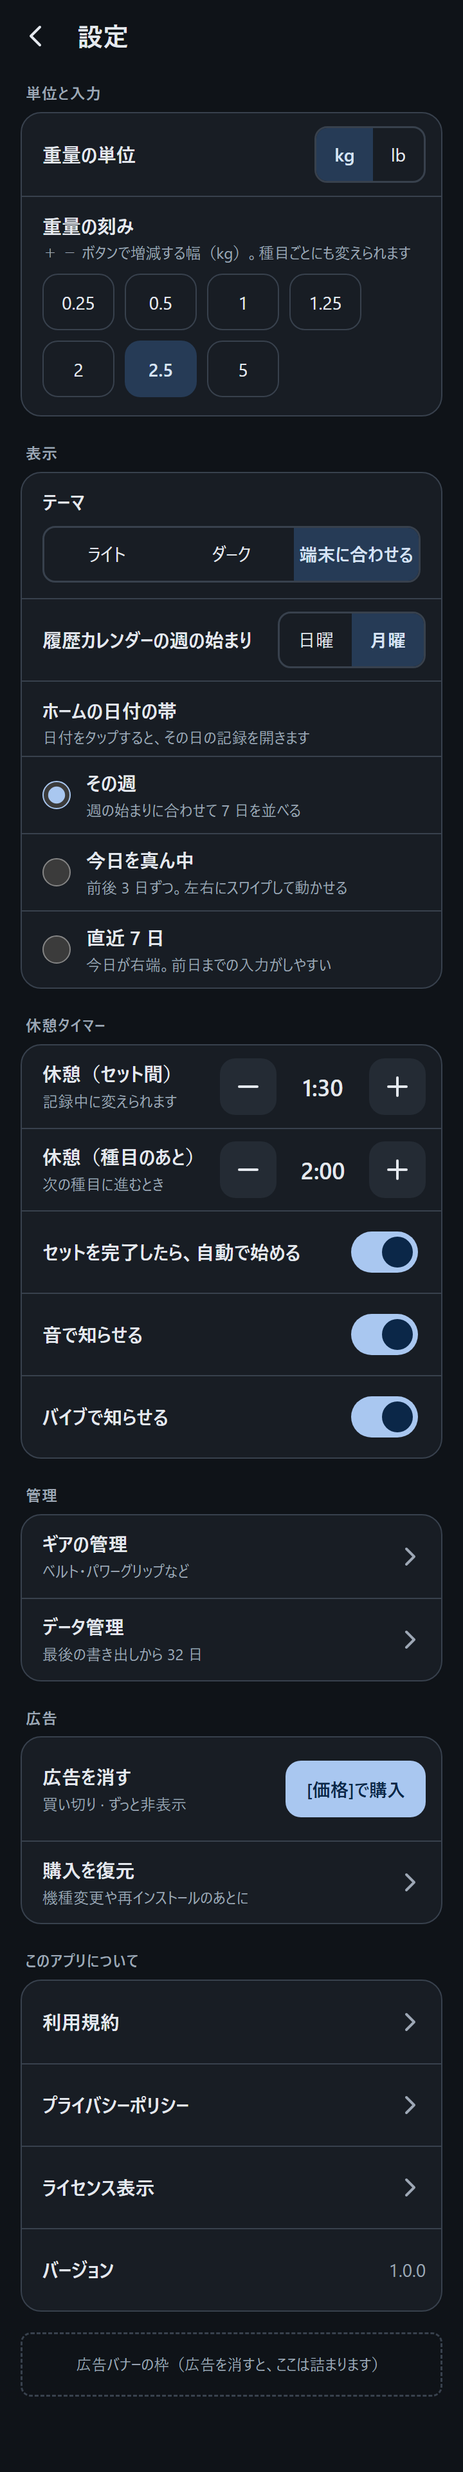
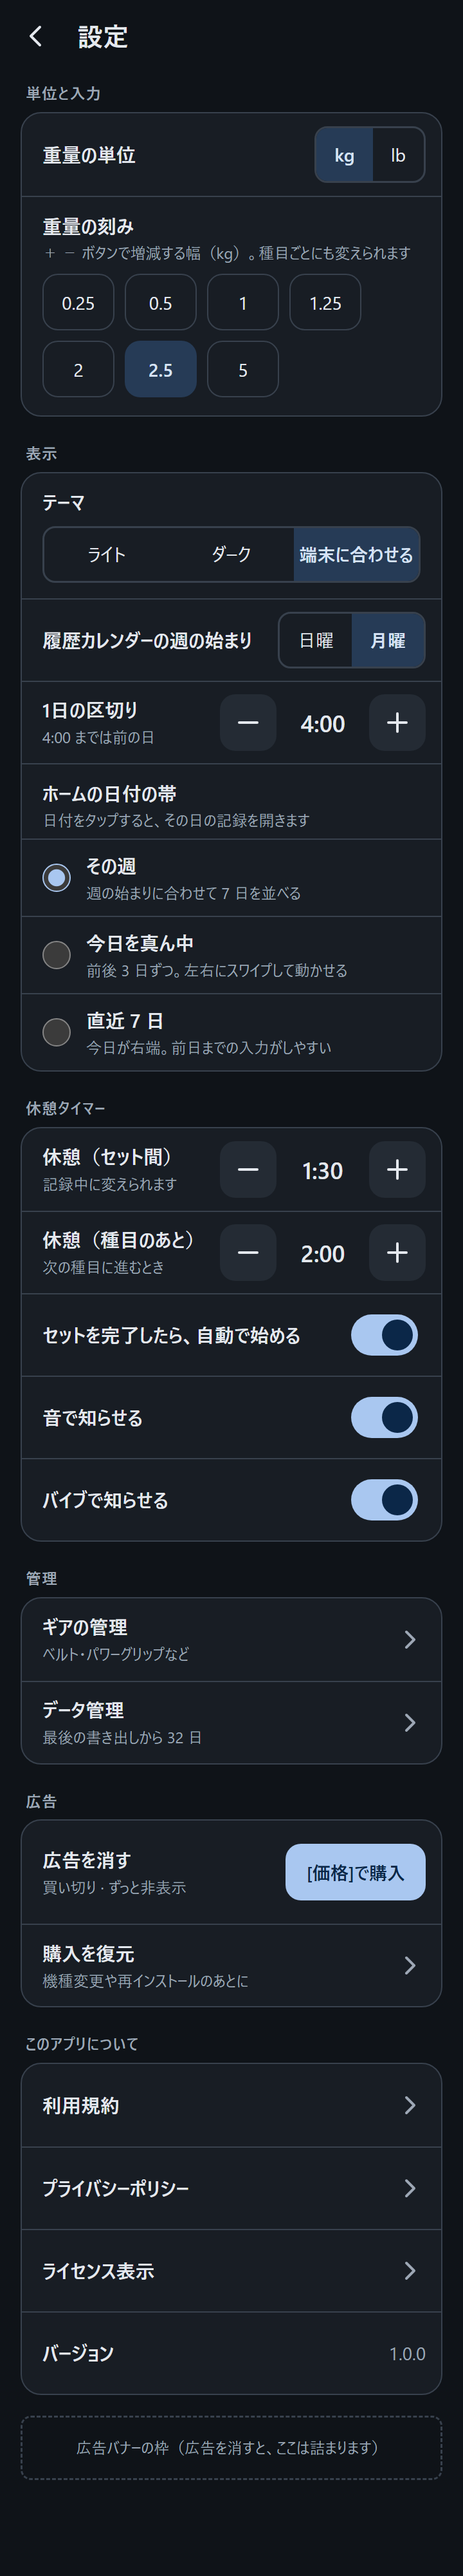
docs(apps/training-log): 設定のデザインに「1日の区切り」を加える
「表示」の中、週の始まりの下に、± で時刻を変える行を置いた。
ホームのデザインのキャンバス上の説明も、実際の表示のルール（行は最大 3 行）に合わせた。

diff --git a/apps/training-log/design/canvas/C12_settings.dc.html b/apps/training-log/design/canvas/C12_settings.dc.html
@@ -11,7 +11,7 @@
 <style>
 *{box-sizing:border-box;margin:0;padding:0}
 button{font:inherit;color:inherit;background:none;border:0;text-align:inherit;cursor:pointer}
-.app{--bg:#F4F6F9;--sf:#FFFFFF;--sf2:#E4E9F0;--fg:#141A22;--sub:#4D5766;--pri:#1F3A5F;--onpri:#FFFFFF;--con:#D6E3F5;--oncon:#0D2440;--line:#C5CCD6;--err:#BA1A1A;--inv:#2B3340;--oninv:#F1F3F7;--invact:#A9C7F0;width:360px;height:1920px;overflow:hidden;position:relative;background:var(--bg);color:var(--fg);display:flex;flex-direction:column;font-family:system-ui,-apple-system,'Segoe UI',Roboto,'Noto Sans JP','Yu Gothic UI',sans-serif;font-size:14px;line-height:1.4;font-variant-numeric:tabular-nums}
+.app{--bg:#F4F6F9;--sf:#FFFFFF;--sf2:#E4E9F0;--fg:#141A22;--sub:#4D5766;--pri:#1F3A5F;--onpri:#FFFFFF;--con:#D6E3F5;--oncon:#0D2440;--line:#C5CCD6;--err:#BA1A1A;--inv:#2B3340;--oninv:#F1F3F7;--invact:#A9C7F0;width:360px;height:2000px;overflow:hidden;position:relative;background:var(--bg);color:var(--fg);display:flex;flex-direction:column;font-family:system-ui,-apple-system,'Segoe UI',Roboto,'Noto Sans JP','Yu Gothic UI',sans-serif;font-size:14px;line-height:1.4;font-variant-numeric:tabular-nums}
 .app.dark{color-scheme:dark;--bg:#0F1318;--sf:#181D24;--sf2:#242B34;--fg:#E4E8EE;--sub:#9DA7B5;--pri:#A9C7F0;--onpri:#0B2748;--con:#263B56;--oncon:#D6E3F5;--line:#38414D;--err:#FFB4AB;--inv:#E4E8EE;--oninv:#141A22;--invact:#1F3A5F}
 .i{width:24px;height:24px;fill:none;stroke:currentColor;stroke-width:2;stroke-linecap:round;stroke-linejoin:round;flex:none}
 .sub{color:var(--sub)}
@@ -77,6 +77,7 @@ button{font:inherit;color:inherit;background:none;border:0;text-align:inherit;cu
   <div class="grp">
     <div class="col"><b class="h2" style="margin-bottom:8px">テーマ</b><div class="seg full" role="group" aria-label="テーマ"><button type="button" aria-pressed="false">ライト</button><button type="button" aria-pressed="false">ダーク</button><button type="button" aria-pressed="true">端末に合わせる</button></div></div>
     <div class="row"><span class="t"><b>履歴カレンダーの週の始まり</b></span><div class="seg" role="group" aria-label="週の始まり"><button type="button" aria-pressed="false">日曜</button><button type="button" aria-pressed="true">月曜</button></div></div>
+    <div class="row"><span class="t"><b>1日の区切り</b><small>4:00 までは前の日</small></span><button type="button" class="pm" aria-label="区切りを早くする"><svg class="i" aria-hidden="true"><use href="#minus"></use></svg></button><span class="val">4:00</span><button type="button" class="pm" aria-label="区切りを遅くする"><svg class="i" aria-hidden="true"><use href="#plus"></use></svg></button></div>
     <div class="col" style="padding-bottom:6px"><b class="h2">ホームの日付の帯</b><small class="sm" style="margin-bottom:0">日付をタップすると、その日の記録を開きます</small></div>
     <div role="radiogroup" aria-label="ホームの日付の帯">
       <label class="orow"><input type="radio" name="band" checked><span class="t"><b>その週</b><small>週の始まりに合わせて 7 日を並べる</small></span></label>
@@ -116,7 +117,7 @@ button{font:inherit;color:inherit;background:none;border:0;text-align:inherit;cu
   <div class="ad" role="img" aria-label="広告バナーの枠">広告バナーの枠（広告を消すと、ここは詰まります）</div>
 </div>
 </x-dc>
-<script type="text/x-dc" data-dc-script data-props='{"dark":{"editor":"boolean","default":false},"$preview":{"width":360,"height":1920}}'>
+<script type="text/x-dc" data-dc-script data-props='{"dark":{"editor":"boolean","default":false},"$preview":{"width":360,"height":2000}}'>
 class Component extends DCLogic {
   renderVals() {
     return { themeClass: this.props.dark ? 'dark' : '' };

diff --git a/apps/training-log/design/README.md b/apps/training-log/design/README.md
@@ -1,6 +1,6 @@
 # training-log 画面デザイン
 
-筋トレ記録アプリ（仮称 training-log）の画面デザインです。[要件定義](../docs/requirements.md)（v1.5）と[デザインの指示書](../docs/design-brief.md)をもとに、Claude Design で作りました。案C「ドック型」を採用しています。
+筋トレ記録アプリ（仮称 training-log）の画面デザインです。[要件定義](../docs/requirements.md)（v1.6）と[デザインの指示書](../docs/design-brief.md)をもとに、Claude Design で作りました。案C「ドック型」を採用しています。
 
 ## デザインの考え方
 
